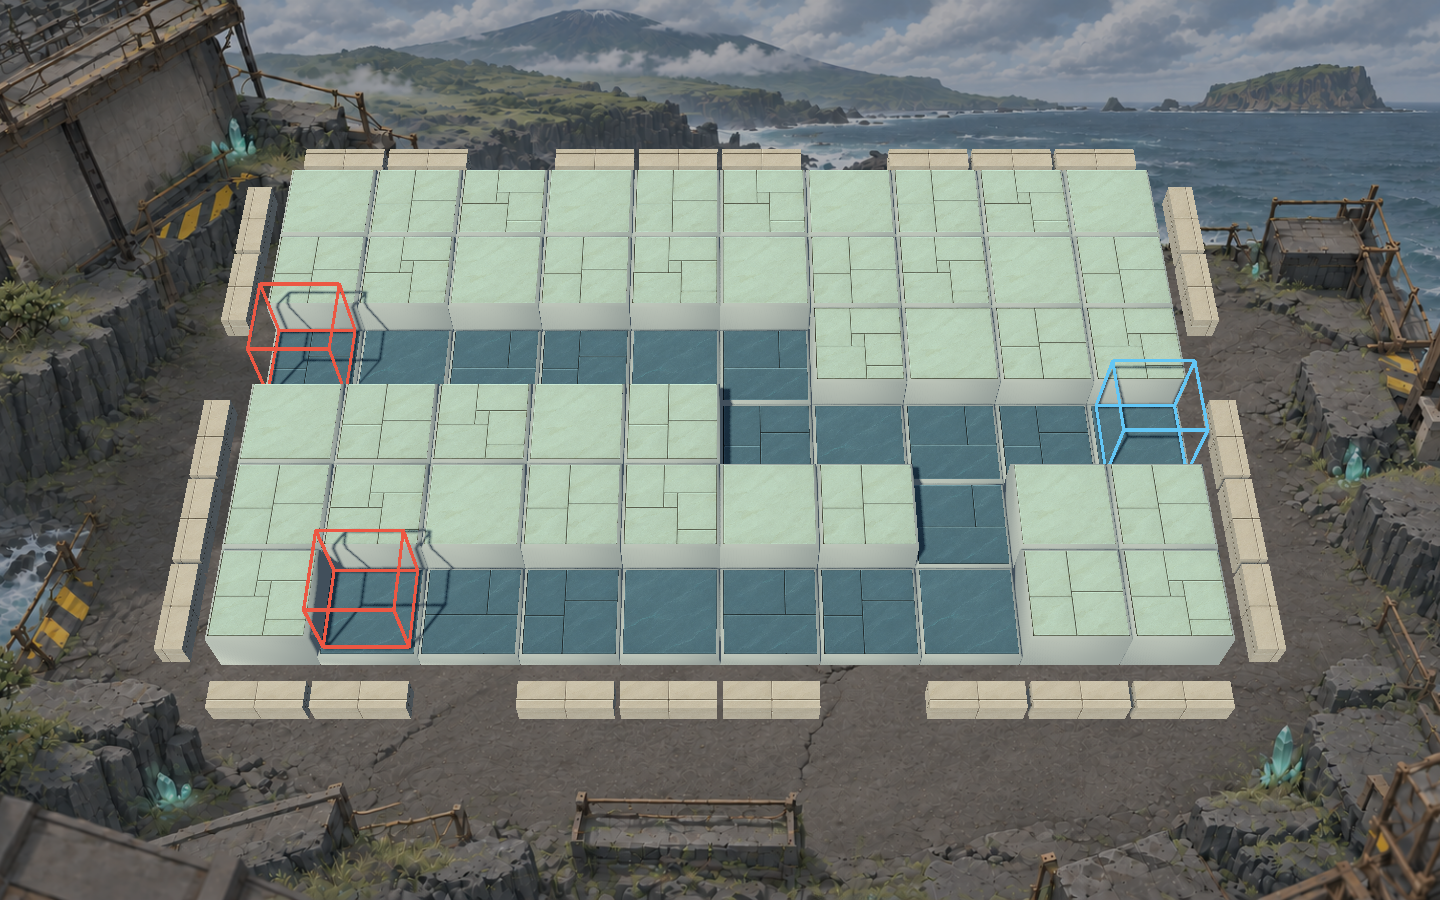
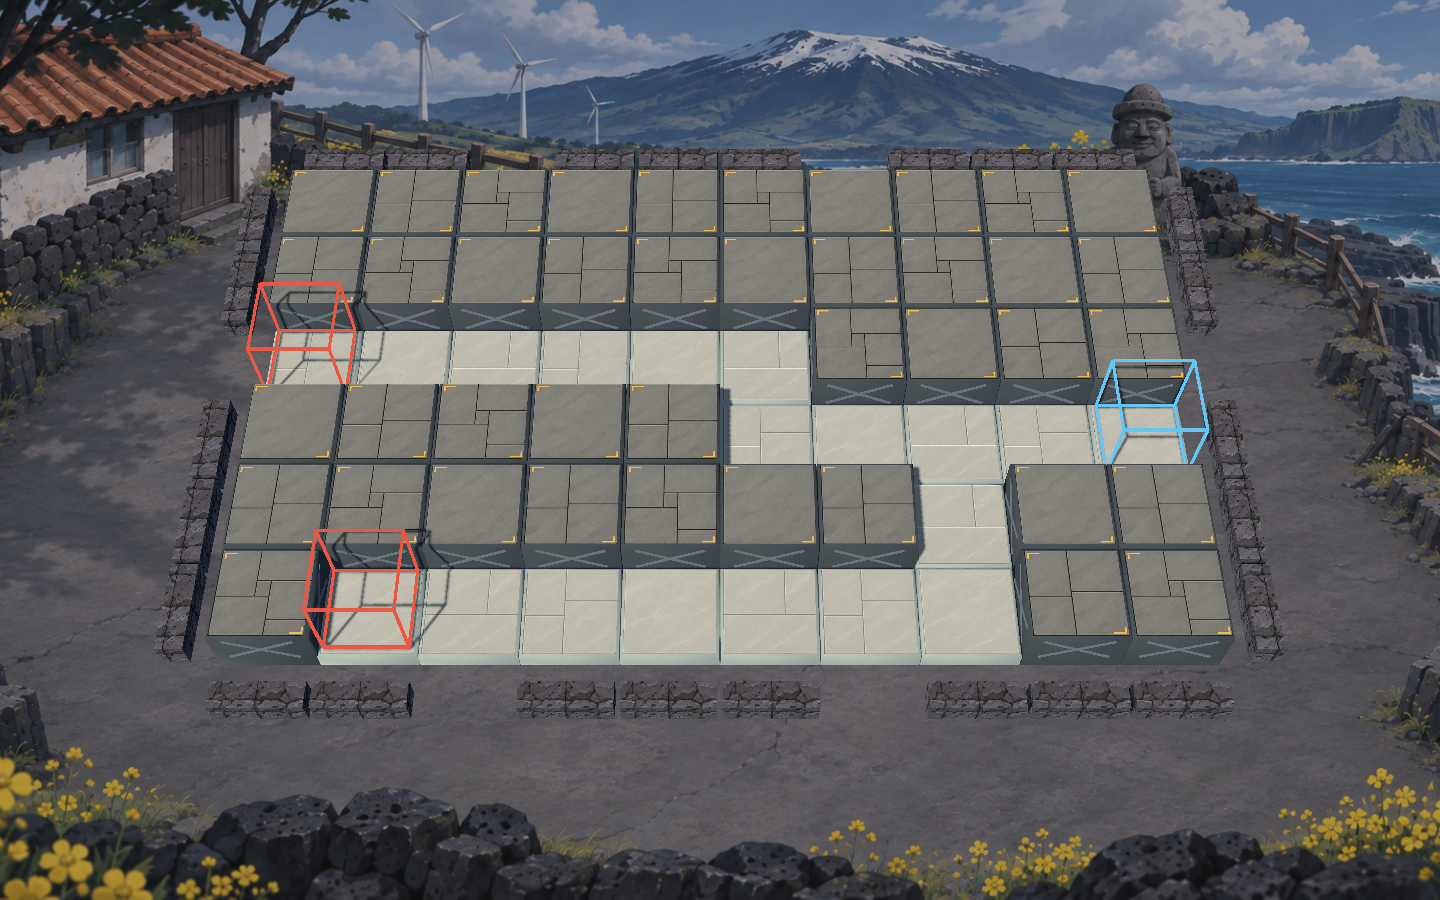
feat(chapter2): refresh coastal battle art

diff --git a/Human/StarterContent/terrain/chapter02_battlefield_v5.prompt.md b/Human/StarterContent/terrain/chapter02_battlefield_v5.prompt.md
@@ -1,0 +1,4 @@
+Tool: built-in imagegen
+References: devtools/blueprint/images/chapter02_battle_concept.png; previous terrain_004/backdrop.png (chapter02_battlefield_v4.png).
+
+Use case: compositing. Create a wide 16:9 hand-painted tactical RPG background plate for a Jeju Island coastal battle. The chapter2-battle concept is the art direction and landmark reference; the current terrain_004/backdrop is the empty-play-area and framing reference. Keep a broad, continuous flat matte gray stone plaza from about 25% down to 91% down, centered, quiet and clear, for a separate 3D game board; keep almost all architectural details near the edges. Bring over the concept's red clay tile roof and white plaster cottage at the extreme upper left, dark porous dry-stacked basalt walls, patches of golden yellow canola along the bottom and edges, stone dol hareubang near the upper right edge, small distant wind turbines and snow-dusted Hallasan on the horizon, blue sea and volcanic cliffs at right. Match the concept’s natural cool slate-gray daylight and restrained hand-painted detail. Perspective looking gently downward like the existing plate, with an open center and modest foreground framing. Render environmental scenery only: no game tiles laid in a pronounced grid, no tactical obstacles in the plaza, no crates, no holograms, no logos, no signs or letters, no HUD, no characters, no watermark.

diff --git a/Human/StarterContent/terrain/chapter02_basalt_v1.prompt.md b/Human/StarterContent/terrain/chapter02_basalt_v1.prompt.md
@@ -1,0 +1,4 @@
+Tool: built-in imagegen
+Reference: devtools/blueprint/images/chapter02_battle_concept.png.
+
+Use case: stylized-concept. Square seamless material texture for a hand-painted isometric tactical RPG environment. Reference chapter2-battle: match only the rough charcoal-gray Jeju basalt wall stones from the central obstacle. Fill the entire square edge to edge with a tightly fitted, irregular but broad and readable dry stack of chunky volcanic basalt blocks, around 3 to 4 blocks across and three courses vertically. Cool slate gray, subtle violet cast, pitted surfaces, angular chipped edges, dark narrow mortar-free seams. Flat evenly lit diffuse albedo suitable for triplanar projection onto low 3D wall blocks; orthographic straight-on texture, no perspective or visible wall silhouette, no plants, background, border, text, or other material. Keep contrast moderate and avoid uniform tiny pebbles.

diff --git a/Human/Chapter_02_Work_Summary.md b/Human/Chapter_02_Work_Summary.md
@@ -34,6 +34,8 @@
 
 第二章三场战斗共用[战场背景](../content/terrains/terrain_004/backdrop.png)和[地面图集](../content/terrains/terrain_004/atlas.png)，各关单独配置布局、路线和波次。素材原图与提示词保存在 `Human/StarterContent/`；每章共用一张背景和一套图集的要求已写入美术规范。
 
+2026-11-15：按[济州海岸概念图](../devtools/blueprint/images/chapter02_battle_concept.png)更新共用背景、灰石地面、钢架高台和玄武岩围边。三张选关图已重渲染；在实际 Game Test 窗口检查了三关的构图和出入口可读性，三场固定回放均通过。
+
 ### 共用战场背景
 
 ![第二章共用战场背景](../content/terrains/terrain_004/backdrop.png)

diff --git a/Human/StarterContent/terrain/chapter02_atlas_v4.source.md b/Human/StarterContent/terrain/chapter02_atlas_v4.source.md
@@ -1,0 +1,3 @@
+Sources: chapter02_atlas_v3.png (slab geometry and special symbols), chapter02_basalt_v1.png (blocked high tile), devtools/blueprint/images/chapter02_battle_concept.png (palette and trim).
+
+The 1024×1024 atlas retains the original 4×4 tile order. High platforms use charcoal gray tops and painted yellow corners; low ground uses cool gray stone. The blocked high tile uses basalt, and the blocked low tile retains its hazard stripe. The 256×256 editor palette is a downsample of the runtime atlas.
